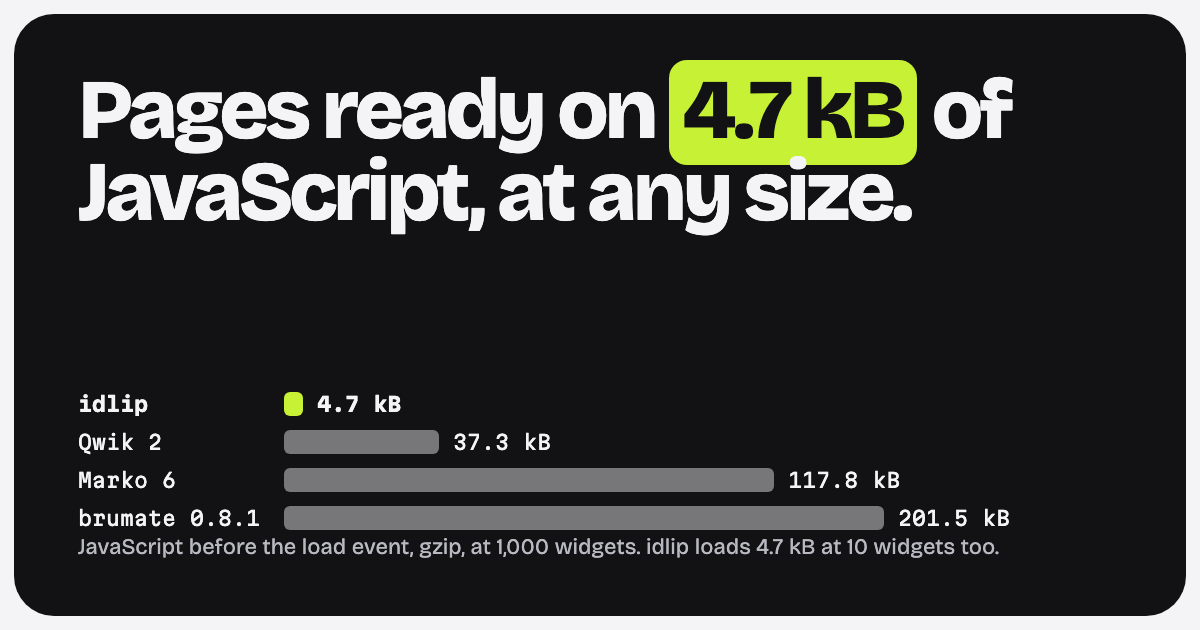
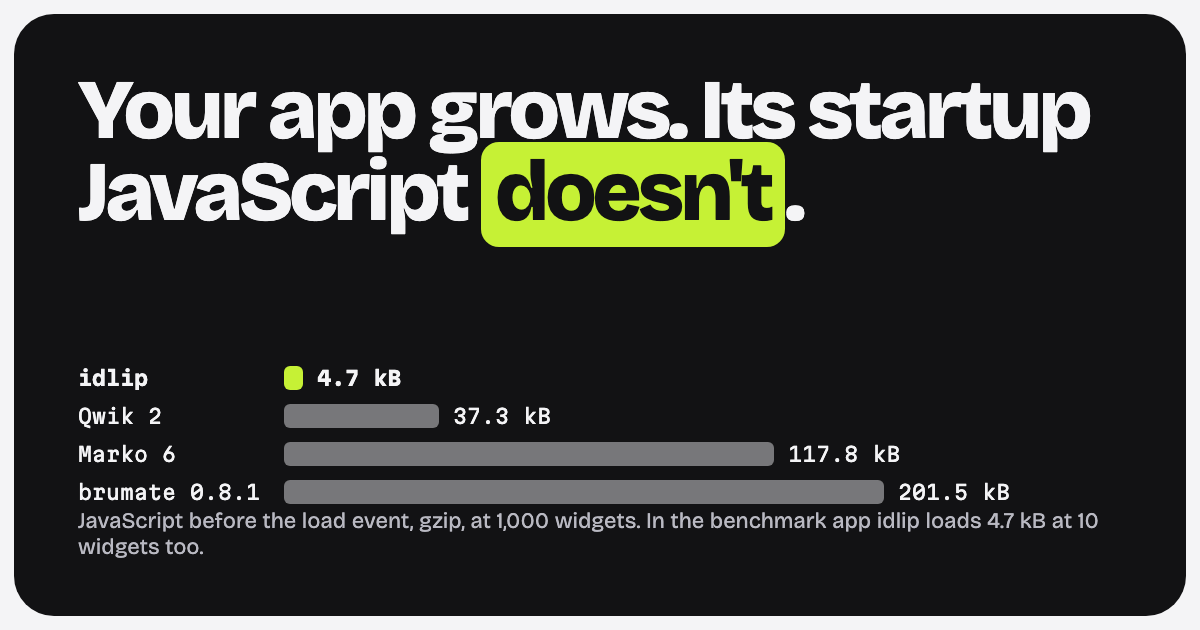
fix(website): lead with the claim that holds for every app
The hero headline no longer shows a bare size. The conditions line gives the
measured loader range, 3.9 to 7.3 kB gzip depending on the features an app
uses, the inline listener and what a click loads. The chart heading names what
it measures. The share image has the new headline.

Changed region(s): [[0.0617, 0.573, 0.925, 0.9048], [0.0617, 0.0905, 0.925, 0.3921]]

diff --git a/website/src/landing/benchmarks.ts b/website/src/landing/benchmarks.ts
@@ -186,6 +186,13 @@ function readFlatCost(
   return { value: last, small: growth.apps[0], large: growth.apps.at(-1) ?? growth.apps[0] };
 }
 
+/** Sizes the copy names, already formatted: the loader range and the inline listener. */
+export interface Sizes {
+  loaderMin: string;
+  loaderMax: string;
+  listener: string;
+}
+
 export interface Headline {
   before: string;
   /** The highlighted part: the number, or the fallback's key words. */
@@ -196,17 +203,17 @@ export interface Headline {
 }
 
 /** The hero headline: the flat cost as a number, or a plain headline when the data is not flat. */
-export function writeHeadline(data: Benchmarks, listener: string): Headline {
+export function writeHeadline(data: Benchmarks, sizes: Sizes): Headline {
   const growth = readGrowth(data);
   const flat = readFlatCost(growth, data.frameworks[0]);
   if (flat === undefined) {
     return { before: 'Pages that run no view code ', value: 'on load', after: '.', conditions: '' };
   }
   return {
-    before: 'Pages ready on ',
-    value: formatValue(flat.value, growth.unit),
-    after: ' of JavaScript, at any size.',
-    conditions: `From ${flat.small} to ${flat.large}: the loader file, gzip, before the load event. A ${listener} inline listener is in the HTML.`,
+    before: 'Your app grows. Its startup JavaScript ',
+    value: "doesn't",
+    after: '.',
+    conditions: `Before the load event, one loader file, ${sizes.loaderMin} to ${sizes.loaderMax} gzip depending on the features the app uses, the same from ${flat.small} to ${flat.large}. A ${sizes.listener} listener is inline in the HTML. Each click loads the handler and bindings it needs.`,
   };
 }
 
@@ -214,16 +221,16 @@ export function writeHeadline(data: Benchmarks, listener: string): Headline {
  * The lead under the heading, from the data: when idlip's cost stays within 10% from the smallest
  * app to the largest, it names that cost and both app sizes.
  */
-function writeLead(growth: Growth, own: string, listener: string): string {
+function writeLead(growth: Growth, own: string, sizes: Sizes): string {
   const flat = readFlatCost(growth, own);
   if (flat === undefined) {
     return 'idlip runs no component code on load. Code arrives with the first click that needs it.';
   }
-  return `With ${escape(flat.small)} or ${escape(flat.large)}, idlip loads the same ${formatValue(flat.value, growth.unit)} of JavaScript before the page is ready, in its loader file, plus a ${escape(listener)} inline listener in the HTML. The code of each widget arrives with the first click that needs it.`;
+  return `With ${escape(flat.small)} or ${escape(flat.large)}, idlip loads the same ${formatValue(flat.value, growth.unit)} of JavaScript before the page is ready in this app. A loader file is ${escape(sizes.loaderMin)} to ${escape(sizes.loaderMax)} depending on the features an app uses, plus a ${escape(sizes.listener)} listener inline in the HTML. The code of each widget arrives with the first click that needs it.`;
 }
 
 /** The startup chart: how much JavaScript each framework loads as the app grows. */
-export function renderBenchmarks(data: Benchmarks, link: string, listener: string): string {
+export function renderBenchmarks(data: Benchmarks, link: string, sizes: Sizes): string {
   const growth = readGrowth(data);
   let max = 0;
   for (const row of growth.rows) {
@@ -244,8 +251,8 @@ export function renderBenchmarks(data: Benchmarks, link: string, listener: strin
     notes += ` ${escape(joinNames(growth.partial))} ran on some sizes only.`;
   }
   return `<section aria-labelledby="benchmarks">
-  <h2 class="row-title" id="benchmarks">Your app grows. Its startup doesn't.</h2>
-  <p class="row-lead">${writeLead(growth, own, listener)}</p>
+  <h2 class="row-title" id="benchmarks">JavaScript before the page is ready, by app size</h2>
+  <p class="row-lead">${writeLead(growth, own, sizes)}</p>
   <div class="tile grow-tile">
     <div class="grow-chart" role="list" aria-label="JavaScript before the page is ready, gzip, per framework">${rows}</div>
     <p class="tile-foot">JavaScript files loaded before the <code>load</code> event, gzip. The inline listener is in the HTML, not in these bars. Run on ${escape(data.date)}, ${escape(data.machine)}.${notes} <a href="${link}">All results and how they were measured</a></p>

diff --git a/website/src/landing/index.ts b/website/src/landing/index.ts
@@ -6,13 +6,29 @@ import { createRenderer } from '../markdown.ts';
 import type { RenderEnv } from '../markdown.ts';
 import type { Page } from '../site.ts';
 import { renderBenchmarks, writeHeadline } from './benchmarks.ts';
-import type { Benchmarks } from './benchmarks.ts';
+import type { Benchmarks, Sizes } from './benchmarks.ts';
 import { renderFeatures } from './features.ts';
 import { formatBytes } from './format.ts';
 import { renderResume } from './resume.ts';
 import { SAMPLE_FILE, SAMPLE_SOURCE } from './sample.ts';
 
 const renderer = createRenderer();
+
+/**
+ * The gzip -9 size of the loader with every optional feature flag of `vite/features.ts` on and
+ * `skew` on. Measured by bundling `idlip/client` with the flags defined as `true`. With none on
+ * and `skew` off the loader is the demo's own, so the demo build supplies the smallest size.
+ */
+const LOADER_MAX_GZIP = 7336;
+
+/** The loader range and the inline listener, as the copy shows them. */
+function readSizes(demo: DemoData): Sizes {
+  return {
+    loaderMin: formatBytes(demo.loader.gzip),
+    loaderMax: formatBytes(LOADER_MAX_GZIP),
+    listener: formatBytes(demo.listener.gzip),
+  };
+}
 
 /** The install command. The package is not on npm before the 0.1 release. */
 export const INSTALL_COMMAND = 'pnpm add idlip';
@@ -34,7 +50,7 @@ function renderInstall(): string {
 }
 
 function renderHero(base: string, start: string, benchmarks: Benchmarks, demo: DemoData): string {
-  const headline = writeHeadline(benchmarks, formatBytes(demo.listener.gzip));
+  const headline = writeHeadline(benchmarks, readSizes(demo));
   const conditions =
     headline.conditions === ''
       ? ''
@@ -74,7 +90,7 @@ function renderSample(demo: DemoData): string {
         <li><code>${escape(demo.binding.name)}</code><span>${formatBytes(demo.binding.gzip)}, the same click</span></li>
         <li><code>${rest} more chunks</code><span>The event that needs each one</span></li>
       </ul>
-      <p class="chunks-foot">The chart above counts the loader file of the benchmark dashboard. That build keeps the default <code>skew</code> recovery, which adds code to its loader. This demo sets <code>skew: false</code>. Sizes are gzip -9.</p>
+      <p class="chunks-foot">The loader grows with the optional features an app uses: ${escape(readSizes(demo).loaderMin)} with none, ${escape(readSizes(demo).loaderMax)} with all of them and <code>skew</code> on. This demo uses none. The chart counts the benchmark dashboard, which uses some. Sizes are gzip -9.</p>
     </div>
   </div>
 </section>`;
@@ -138,7 +154,7 @@ ${renderHeader(base, start)}
   ${renderHero(base, start, benchmarks, demo)}
   ${renderResume(demo)}
   ${renderFeatures(pages, base)}
-  ${renderBenchmarks(benchmarks, findBenchmarksLink(pages, base, benchmarks.source), formatBytes(demo.listener.gzip))}
+  ${renderBenchmarks(benchmarks, findBenchmarksLink(pages, base, benchmarks.source), readSizes(demo))}
   ${renderSample(demo)}
   ${renderObjections()}
   ${renderFinal(base, start)}

diff --git a/website/test/landing.test.ts b/website/test/landing.test.ts
@@ -39,6 +39,7 @@ const demo: DemoData = {
   ],
 };
 
+const sizes = { loaderMin: '3.9 kB', loaderMax: '7.3 kB', listener: '991 B' };
 const pages = loadPages();
 if (!isBenchmarks(benchmarks)) {
   throw new TypeError('benchmarks.json has the wrong shape');
@@ -65,20 +66,26 @@ describe('the landing page', () => {
     }
   });
 
-  it('leads with the flat JavaScript cost from the data', () => {
-    const growth = readGrowth(benchmarksData);
-    const own = growth.rows[0].values.at(-1) ?? 0;
-    const value = `${String(Number(own.toFixed(1)))} kB`;
+  it('leads with the claim that holds for every app, and gives the measured facts', () => {
     expect(landing).toContain(
-      `<h1 class="display">Pages ready on <em>${value}</em> of JavaScript, at any size.</h1>`,
+      `<h1 class="display">Your app grows. Its startup JavaScript <em>doesn't</em>.</h1>`,
     );
-    expect(landing).toContain('before the load event');
+    expect(landing).not.toMatch(/<h1[^>]*>[^<]*\d/);
+    expect(landing).toContain(
+      'one loader file, 3.9 kB to 7.3 kB gzip depending on the features the app uses, the same from 10 widgets to 1,000 widgets.',
+    );
+    expect(landing).toContain('A 991 B listener is inline in the HTML.');
+    expect(landing).toContain('Each click loads the handler and bindings it needs.');
     expect(landing).toContain(
       'idlip is a UI framework for TypeScript apps that the server renders.',
     );
     expect(landing).not.toContain('Server renders, browser resumes.');
-    expect(landing).toContain('A 991 B inline listener is in the HTML.');
     expect(landing).not.toContain('4.9 kB');
+  });
+
+  it('names the chart by what it measures, not by the headline', () => {
+    expect(landing).toContain('>JavaScript before the page is ready, by app size</h2>');
+    expect(landing.match(/Its startup JavaScript/g)).toHaveLength(1);
   });
 
   it('falls back to a plain headline when the cost grows', () => {
@@ -88,12 +95,12 @@ describe('the landing page', () => {
         group.metrics[group.metrics.length - 1].values.idlip = 50;
       }
     }
-    const headline = writeHeadline(grown, '991 B');
+    const headline = writeHeadline(grown, sizes);
     expect(headline.conditions).toBe('');
     expect(headline.before + headline.value + headline.after).toBe(
       'Pages that run no view code on load.',
     );
-    expect(writeHeadline(benchmarksData, '991 B').value).toMatch(/kB$/);
+    expect(writeHeadline(benchmarksData, sizes).conditions).not.toBe('');
   });
 
   it('has the install command with a copy button in the hero and at the end', () => {

diff --git a/docs/roadmaps/core/nodes/website-landing/outcome.md b/docs/roadmaps/core/nodes/website-landing/outcome.md
@@ -2,11 +2,11 @@
 
 ## For the user
 
-The landing page now leads with the result. Hero headline: "Pages ready on 4.7 kB of JavaScript, at any size." The number comes from `benchmarks.json` (idlip within 10% from the smallest to the largest app), with the plain fallback "Pages that run no view code on load." Section order: hero, resume diagram (the demo), benefit cards ("What you get"), benchmarks chart, sample, "Before you start", final call to action.
+The landing page now leads with the result. Hero headline: "Your app grows. Its startup JavaScript doesn't." The claim is used only while `benchmarks.json` shows idlip within 10% from the smallest to the largest app, with the plain fallback "Pages that run no view code on load." Section order: hero, resume diagram (the demo), benefit cards ("What you get"), benchmarks chart, sample, "Before you start", final call to action.
 
 ## What changed
 
-1. Hero headline from the data, with a test for the number and the fallback. The hero lead now says what idlip is and for whom, and the slogan is gone. The conditions (10 to 1,000 widgets, the loader file, gzip, before `load`, and the inline listener in the HTML) sit under it with a link to the chart.
+1. Hero headline states the claim true for every app, with no bare number. The conditions line gives the measured loader range (3.9 to 7.3 kB gzip), the same from 10 to 1,000 widgets, the 991 B inline listener and what a click loads. The fallback headline stays. The hero lead now says what idlip is and for whom, and the slogan is gone. The conditions (10 to 1,000 widgets, the loader file, gzip, before `load`, and the inline listener in the HTML) sit under it with a link to the chart.
 2. Install command `pnpm add idlip` with a copy button in the hero. The package is not on npm before 0.1, so the page says so under "Before you start".
 3. Demo. The orchestrator removed the REPL links. The resume diagram sits right below the hero and is the demo. No REPL link on the landing page body (the header keeps its existing REPL link).
 4. Six benefit cards with the gain as the title and the feature in the text. No arrow icons. The Vite plugin card is gone (it is in "Before you start"). Code chips wrap instead of truncating.
@@ -16,14 +16,14 @@ The landing page now leads with the result. Hero headline: "Pages ready on 4.7 k
 8. Chart bars grow when the chart scrolls into view (`src/client/chart.ts`, IntersectionObserver, 220 ms per bar, 70 ms stagger). Without JS or with reduced motion they show the end state.
 9. Every bar carries its app label ("10 widgets" to "1,000 widgets"). The shade legend is gone.
 10. Copy buttons get a 44 px hit target under `@media (pointer: coarse)`.
-11. Number mismatch. The chart's 4.7 kB is the dashboard's loader file only (`bootJsGzip`). The reason it is larger than the demo's 3.9 kB loader: the dashboard build keeps the default `skew` recovery (its loader references `build.js`, 12.5 kB raw), and the demo build sets `skew: false` (its loader has no `build.js`, 9.8 kB raw). The chunk list says so and adds no sums. The hero and the chart lead say the 4.7 kB is the loader file and that the 991 B inline listener (measured from the demo build) is in the HTML.
+11. Number mismatch. The 4.7 kB of the chart is the dashboard loader file only (`bootJsGzip`). The loader size depends on the optional features an app turns on. Measured with `idlip/client` bundled with the flags of `vite/features.ts` defined: 9,793 B raw and 3,881 B gzip with none on and `skew` off (the demo loader exactly), 3,941 B with `skew` on, 19,905 B raw and 7,336 B gzip with every flag and `skew` on. `skew` alone adds about 60 B. The chunk list says the loader grows with features and adds no sums. The 7,336 B is the constant `LOADER_MAX_GZIP` in `src/landing/index.ts`. Re-measure it when the loader changes.
 
 Review fixes: the chart bars are held at zero in CSS under the `js` class of `<html>` (set by the head script), so there is no flash and no-JS shows the end state. `src/client/chart.ts` only adds `is-in`. Copy buttons have `min-height: 1.5rem`, and `.install .code-copy` has hover, active and focus-visible styles. The hero and final headlines use `text-wrap: balance`. The hero lead no longer repeats the slogan. New tests cover SITE_URL (absolute `og:image`), escaping of hostile `benchmarks.json` strings, a real html token class in the diagram code, and `chart.ts` with fake globals. 12. Open Graph tags (`og:title`, `og:description`, `og:type`, `og:image`, size and alt) and `twitter:card`. The image is `website/public/og.png`. The image URL is absolute when `SITE_URL` or Vercel's `VERCEL_PROJECT_PRODUCTION_URL` is set, else a path from the site root. 13. The diagram footnote is one sentence. 14. The diagram's server HTML is highlighted (html and js grammars per piece), and the step marks still work. Lit marks keep one color. 15. Docs code blocks have `padding-top: 2.75rem`, so the language label and Copy button no longer cover the first line. No layout shift.
 
 ## Not done or open
 
 - Nothing from the 13 items was left.
-- The share image is a still. Its numbers (4.7 kB, 201.5 kB) do not update when `benchmarks.json` changes. Redo it then.
+- The share image is a still. Its chart numbers (4.7 kB, 201.5 kB) do not update when `benchmarks.json` changes. Redo it then. Its headline has no number.
 - The `og:image` is relative unless the deploy sets `SITE_URL`. Link scrapers need an absolute URL. The orchestrator should set it for the deploy.
 - The copy in the benchmark foot still says "JavaScript loaded before the `load` event", which matches the bench-scale correction. "Qwik 1 was not run" is already right.
 - This node made no change to `website/src/markdown.ts` or `website/src/repl/**`. The branch diff shows them only because of the cherry-picked commit `cb6c371`.

diff --git a/docs/roadmaps/core/nodes/website-landing/log.md b/docs/roadmaps/core/nodes/website-landing/log.md
@@ -8,3 +8,13 @@
 - `src/site.ts` no longer reads `examples/todo` for the landing page.
 - Share image `website/public/og.png` was made once from an HTML file with Chromium and committed. Its numbers are fixed in the picture.
 - Checked in Chromium against `vite preview` at 1440 px: hero, chart (bars grow on scroll), diagram code, sample, facts, final CTA, benefit cards, docs code block. No page errors.
+
+## Loader size range (user feedback on the hero number)
+
+- Method: bundle `packages/idlip/dist/client/index.js` with Vite (default minify), `define` every `__IDLIP_HAS_*__` flag of `packages/idlip/src/vite/features.ts` (TASKS, KEYED, REFS, CHILDREN, SUBS, HEAD, ERRORS, RETRY, DYNAMIC) and `__IDLIP_HAS_SKEW__`, then `gzip -9` the output. Throwaway script in the scratchpad, nothing committed.
+- No flags, skew off: 9,793 B raw, 3,881 B gzip. This equals the demo loader, so it checks the method.
+- No flags, skew on: 9,921 B raw, 3,941 B gzip.
+- Every flag, skew off: 19,777 B raw, 7,281 B gzip.
+- Every flag, skew on: 19,905 B raw, 7,336 B gzip.
+- Range shown on the page: 3.9 to 7.3 kB. The earlier note that `skew` explains 3.9 vs 4.7 kB was wrong: `skew` adds about 60 B. The features the dashboard turns on explain the rest.
+- Hero headline changed to "Your app grows. Its startup JavaScript doesn't." The chart heading is now "JavaScript before the page is ready, by app size". `og.png` was redone with the new headline.
